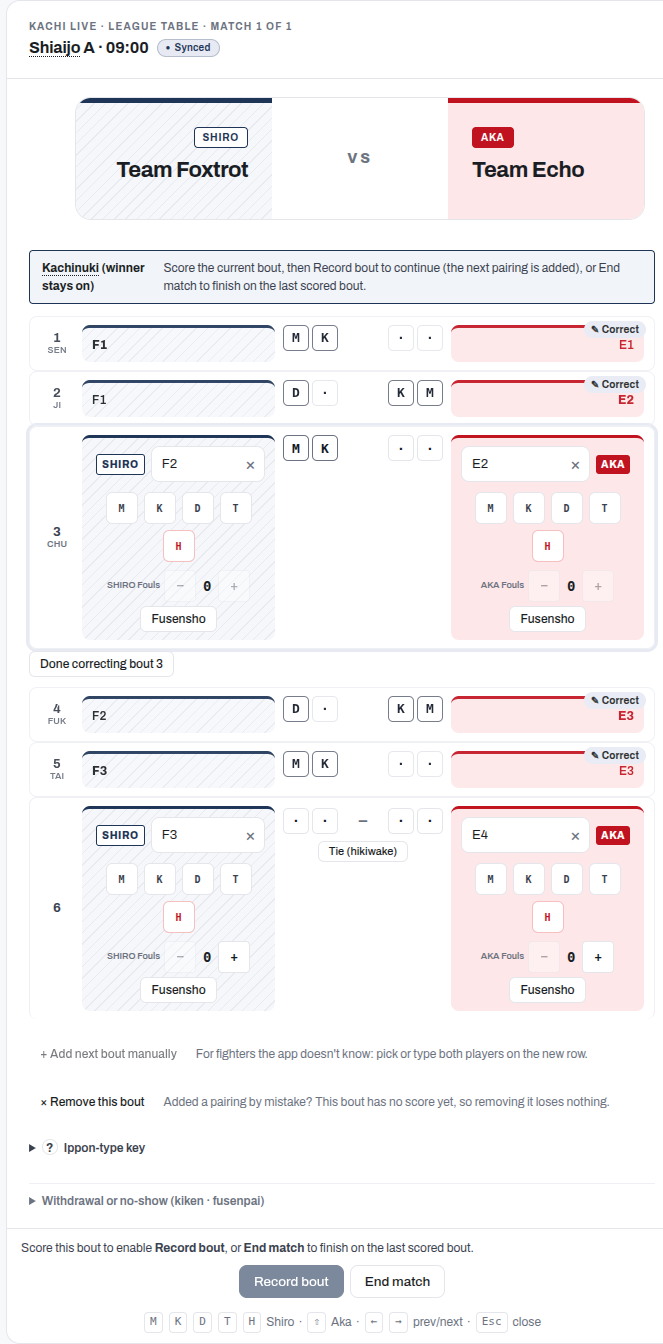
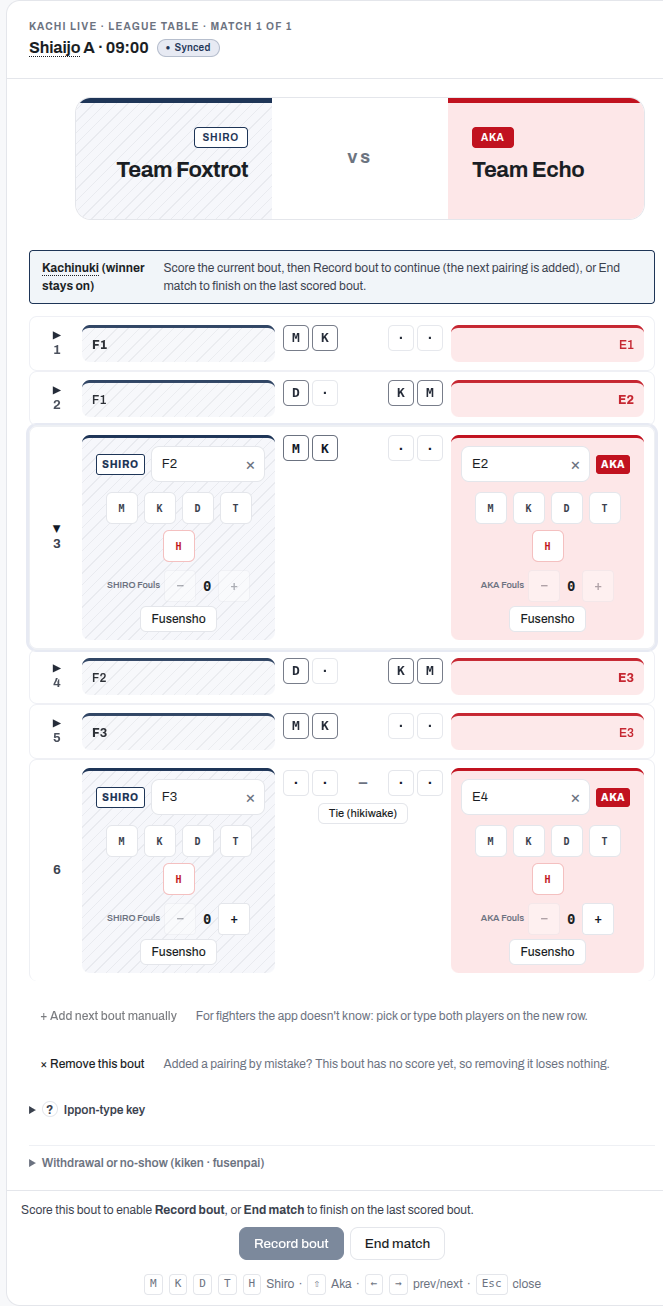
refactor(mp-gmcg): black-triangle toggle + numbers-only column for bout correction
Two operator-feedback refinements to the kachinuki correction left column.

Expand/collapse is now a black triangle, not the pencil pill or a "Done"
button (X means delete here — there is already "× Remove this bout"),
matching the app's disclosure convention:
- collapsed rows show a black ▶ (--ink-1), aria-expanded=false; the whole
  row expands (large tap target)
- an opened bout shows the triangle rotated to ▼ (aria-expanded=true) as a
  real button that collapses it back; only one bout is open at a time
- the winner-flip warning stays; the footer is now warning-only

The FIK position labels (Senpo/Jiho/...) are dropped in kachinuki, keeping
only the bout number: with winner-stays-on a bout is the previous winner vs
the NEXT team's fighter, not "Jiho vs Jiho", so the label misled. Regular
team matches (position vs counterpart) keep the labels.

Render tests updated to the caret controls + a "tapping a different fought
bout switches which one is open" test; the collapse-caret handler verified
red-then-green. Browser-verified on the iPad-Air shiaijo view: ▶ collapsed →
tap → ▼ correcting → tap ▼ → ▶; left column reads ▶1..▶5, 6 with no notation.

diff --git a/web-mobile/js/admin_scoring_team.jsx b/web-mobile/js/admin_scoring_team.jsx
@@ -1314,7 +1314,7 @@ export function TeamScoreEditorModal({ match, teamSize, onClose, onSubmit, onSub
   };
 
   // mp-gmcg: open a past (already-fought) bout for inline correction. Snapshot
-  // its current outcome so renderDoneBoutEditFooter can tell if the operator
+  // its current outcome so renderCorrectionWarning can tell if the operator
   // FLIPS who won (which invalidates the later bouts' fighters).
   const openDoneBoutEdit = (idx) => {
     const t = subTotals[idx];
@@ -1328,21 +1328,18 @@ export function TeamScoreEditorModal({ match, teamSize, onClose, onSubmit, onSub
   // changed who won (the later bouts were fought on the old result). Rendered
   // as its own element in the bout list so it sits directly beneath the bout
   // being edited without surgery inside the shared editable-bout block.
-  const renderDoneBoutEditFooter = (idx) => {
+  const renderCorrectionWarning = (idx) => {
     const orig = editingDoneOriginalRef.current;
     const t = subTotals[idx];
     const winnerFlipped = !!orig && !!t && t.winner !== orig.winner;
+    // The black-triangle caret (in the bout's position column) is the
+    // expand/collapse control, so no Done button here. The footer exists only
+    // to carry the winner-flip warning; nothing to show otherwise.
+    if (!winnerFlipped) return null;
     return (
-      <div key={`edit-footer-${idx}`} className="kachinuki-done-edit-footer" data-testid={`kachinuki-done-edit-footer-${idx}`}>
-        {winnerFlipped && (
-          <p className="kachinuki-done-edit-warn" data-testid="kachinuki-done-edit-warn">
-            You changed who won bout {idx + 1}. The later bouts were fought based on the old result, so check they still show the right competitors and fix any that are wrong.
-          </p>
-        )}
-        <button type="button" className="btn btn--sm kachinuki-done-edit-done" data-testid="kachinuki-done-edit-done" onClick={closeDoneBoutEdit}>
-          Done correcting bout {idx + 1}
-        </button>
-      </div>
+      <p key={`edit-warn-${idx}`} className="kachinuki-done-edit-warn" data-testid="kachinuki-done-edit-warn">
+        You changed who won bout {idx + 1}. The later bouts were fought based on the old result, so check they still show the right competitors and fix any that are wrong.
+      </p>
     );
   };
 
@@ -1356,16 +1353,17 @@ export function TeamScoreEditorModal({ match, teamSize, onClose, onSubmit, onSub
     const s = subs[idx];
     const t = subTotals[idx];
     const { aName, bName } = playerNamesForBout(idx);
-    const posAbbrev = positionAbbrevFor(teamSize, idx, (m.subResults || []).find(sr => sr.position === idx + 1));
     const scored = t.aTotal > 0 || t.bTotal > 0;
     const isDraw = s.draw || (t.winner === null && scored);
     const nameCls = (side) => "tsm-name__static" + (t.winner === side ? " tsm-name__static--win" : "");
     return (
       <div key={`ro-${idx}`} className="team-sub-match team-sub-match--readonly team-sub-match--editable" data-testid={`kachinuki-done-bout-${idx}`}
-        role="button" tabIndex={0} aria-label={`Correct bout ${idx + 1}`}
+        role="button" tabIndex={0} aria-label={`Correct bout ${idx + 1}`} aria-expanded={false}
         onClick={() => openDoneBoutEdit(idx)}
         onKeyDown={e => { if (e.key === "Enter" || e.key === " ") { e.preventDefault(); openDoneBoutEdit(idx); } }}>
-        <div className="team-sub-match__pos"><span className="team-sub-match__pos-num">{idx + 1}</span>{posAbbrev && <span className="team-sub-match__pos-name">{posAbbrev}</span>}</div>
+        {/* Kachinuki: only the bout number (no FIK position handle — the winner
+            stays on, so a bout is not "position vs same position"). */}
+        <div className="team-sub-match__pos"><span className="tsm-caret" aria-hidden="true">▶</span><span className="team-sub-match__pos-num">{idx + 1}</span></div>
         <div className="team-sub-match__row">
           <div className="team-sub-match__side team-sub-match__side--shiro">
             <div className="tsm-name"><span className={nameCls("b")}>{bName || "-"}</span></div>
@@ -1387,7 +1385,6 @@ export function TeamScoreEditorModal({ match, teamSize, onClose, onSubmit, onSub
             <div className="tsm-name"><span className={nameCls("a")}>{aName || "-"}</span></div>
           </div>
         </div>
-        <span className="team-sub-match__edit-hint" aria-hidden="true">✎ Correct</span>
       </div>
     );
   };
@@ -1734,7 +1731,7 @@ export function TeamScoreEditorModal({ match, teamSize, onClose, onSubmit, onSub
             // so positions.indexOf round-trips the index cleanly.
             ...kachinukiDoneBoutIdxs.flatMap(idx => (
               idx === editingDoneBoutIdx
-                ? [positions[idx], renderDoneBoutEditFooter(idx)]
+                ? [positions[idx], renderCorrectionWarning(idx)]
                 : [renderReadOnlyBout(idx)]
             )),
             ...visiblePositions,
@@ -1871,6 +1868,15 @@ export function TeamScoreEditorModal({ match, teamSize, onClose, onSubmit, onSub
             return (
               <div key={idx} className={"team-sub-match" + (idx === editingDoneBoutIdx ? " team-sub-match--correcting" : "")}>
                 <div className="team-sub-match__pos" title={posLabel}>
+                  {/* mp-gmcg: a bout opened for correction gets the same black
+                      triangle as its collapsed row, now pointing down (rotated
+                      via --open) and clickable to collapse it back. Only the
+                      corrected past bout carries it; the live current bout does
+                      not (it is never collapsible). */}
+                  {idx === editingDoneBoutIdx && (
+                    <button type="button" className="tsm-caret tsm-caret--open tsm-caret-btn" data-testid={`kachinuki-done-collapse-${idx}`}
+                      aria-label={`Collapse bout ${idx + 1}`} aria-expanded={true} onClick={closeDoneBoutEdit}>▶</button>
+                  )}
                   {/* Bout number AND the FIK position handle (Sen/Ji/Chu/Fuk/Tai
                       for 5-person teams): operators think in positions, so the
                       abbreviation rides in the row instead of hiding in the
@@ -1878,7 +1884,12 @@ export function TeamScoreEditorModal({ match, teamSize, onClose, onSubmit, onSub
                       the size-agnostic anchor; >5-person teams show it alone.
                       Daihyosen (the rep bout) shows "DH". */}
                   <span className="team-sub-match__pos-num">{isDaihyoRow ? "DH" : idx + 1}</span>
-                  {!isDaihyoRow && posAbbrev && (
+                  {/* mp-gmcg: the FIK position handle (Senpo/Jiho/...) is shown
+                      only for REGULAR team matches, where each position fights
+                      its counterpart. In kachinuki the winner stays on and faces
+                      the NEXT team's fighter, so a bout is not "Jiho vs Jiho" and
+                      the label misleads: only the bout number is kept. */}
+                  {!isKachinuki && !isDaihyoRow && posAbbrev && (
                     <span className="team-sub-match__pos-name">{posAbbrev}</span>
                   )}
                 </div>

diff --git a/web-mobile/js/__tests__/render/team_editor_config_matrix.render.test.jsx b/web-mobile/js/__tests__/render/team_editor_config_matrix.render.test.jsx
@@ -326,9 +326,9 @@ describe('TeamScoreEditorModal kachinuki bout navigation', () => {
 
   it('RUNNING: tapping a fought bout reopens it inline with scoring controls (mp-gmcg)', async () => {
     // The mid-encounter correction path: a fought bout is read-only with a
-    // visible "Correct" affordance, and tapping it reopens the SAME scoring
-    // controls as the current bout, in place, flagged as the bout being
-    // corrected. No Reopen/End round-trip needed.
+    // black expand caret and aria-expanded=false, and tapping it reopens the
+    // SAME scoring controls as the current bout, in place, flagged as the bout
+    // being corrected with a collapse caret. No Reopen/End round-trip needed.
     const { container } = await renderCell(KACHI_CELL, {
       subResults: [
         { position: 1, sideA: 'A1', sideB: 'B1', ipponsA: [], ipponsB: ['M', 'K'], winner: 'B1' },
@@ -337,7 +337,8 @@ describe('TeamScoreEditorModal kachinuki bout navigation', () => {
     });
     const done = screen.getByTestId('kachinuki-done-bout-0');
     expect(done.classList.contains('team-sub-match--readonly')).toBe(true);
-    expect(done.querySelector('.team-sub-match__edit-hint')).not.toBeNull();
+    expect(done.getAttribute('aria-expanded')).toBe('false');
+    expect(done.querySelector('.tsm-caret')).not.toBeNull();
     expect(done.querySelector('.team-sub-match__btns')).toBeNull();
     await act(async () => { fireEvent.click(done); });
     const rows = container.querySelectorAll('.team-sub-match');
@@ -346,7 +347,10 @@ describe('TeamScoreEditorModal kachinuki bout navigation', () => {
     expect(rows[0].classList.contains('team-sub-match--correcting')).toBe(true);
     expect(rows[0].querySelector('.team-sub-match__btns')).not.toBeNull();
     expect(rows[1].querySelector('.team-sub-match__btns')).not.toBeNull();
-    expect(screen.getByTestId('kachinuki-done-edit-footer-0')).toBeTruthy();
+    // The collapse caret (rotated, aria-expanded=true) is the close control.
+    const caret = screen.getByTestId('kachinuki-done-collapse-0');
+    expect(caret.classList.contains('tsm-caret--open')).toBe(true);
+    expect(caret.getAttribute('aria-expanded')).toBe('true');
   });
 
   it('RUNNING: correcting a fought bout without changing the winner shows no chain warning (mp-gmcg)', async () => {
@@ -387,7 +391,7 @@ describe('TeamScoreEditorModal kachinuki bout navigation', () => {
     expect(screen.getByTestId('kachinuki-done-edit-warn')).toBeTruthy();
   });
 
-  it('RUNNING: Done collapses a corrected bout back to a read-only row (mp-gmcg)', async () => {
+  it('RUNNING: the collapse caret returns a corrected bout to a read-only row (mp-gmcg)', async () => {
     await renderCell(KACHI_CELL, {
       subResults: [
         { position: 1, sideA: 'A1', sideB: 'B1', ipponsA: [], ipponsB: ['M', 'K'], winner: 'B1' },
@@ -395,10 +399,28 @@ describe('TeamScoreEditorModal kachinuki bout navigation', () => {
       ],
     });
     await act(async () => { fireEvent.click(screen.getByTestId('kachinuki-done-bout-0')); });
-    expect(screen.getByTestId('kachinuki-done-edit-footer-0')).toBeTruthy();
-    await act(async () => { fireEvent.click(screen.getByTestId('kachinuki-done-edit-done')); });
+    expect(screen.getByTestId('kachinuki-done-collapse-0')).toBeTruthy();
+    await act(async () => { fireEvent.click(screen.getByTestId('kachinuki-done-collapse-0')); });
     expect(screen.getByTestId('kachinuki-done-bout-0').classList.contains('team-sub-match--readonly')).toBe(true);
-    expect(screen.queryByTestId('kachinuki-done-edit-footer-0')).toBeNull();
+    expect(screen.queryByTestId('kachinuki-done-collapse-0')).toBeNull();
+  });
+
+  it('RUNNING: tapping a different fought bout switches which one is open (mp-gmcg)', async () => {
+    // Only one bout is open at a time: opening another collapses the current.
+    await renderCell(KACHI_CELL, {
+      subResults: [
+        { position: 1, sideA: 'A1', sideB: 'B1', ipponsA: [], ipponsB: ['M', 'K'], winner: 'B1' },
+        { position: 2, sideA: 'A2', sideB: 'B1', ipponsA: ['M', 'K'], ipponsB: [], winner: 'A2' },
+        { position: 3, sideA: 'A2', sideB: 'B2', ipponsA: [], ipponsB: [] },
+      ],
+    });
+    await act(async () => { fireEvent.click(screen.getByTestId('kachinuki-done-bout-0')); });
+    expect(screen.getByTestId('kachinuki-done-collapse-0')).toBeTruthy();
+    // Open bout 2: bout 1 collapses (its caret gone), bout 2's caret appears.
+    await act(async () => { fireEvent.click(screen.getByTestId('kachinuki-done-bout-1')); });
+    expect(screen.queryByTestId('kachinuki-done-collapse-0')).toBeNull();
+    expect(screen.getByTestId('kachinuki-done-collapse-1')).toBeTruthy();
+    expect(screen.getByTestId('kachinuki-done-bout-0').classList.contains('team-sub-match--readonly')).toBe(true);
   });
 
   it('RUNNING: an open past-bout correction survives a same-match reload (mp-gmcg)', async () => {
@@ -414,7 +436,7 @@ describe('TeamScoreEditorModal kachinuki bout navigation', () => {
     };
     const utils = await renderCell(KACHI_CELL, overrides);
     await act(async () => { fireEvent.click(screen.getByTestId('kachinuki-done-bout-0')); });
-    expect(screen.getByTestId('kachinuki-done-edit-footer-0')).toBeTruthy();
+    expect(screen.getByTestId('kachinuki-done-collapse-0')).toBeTruthy();
     // Simulate the SSE reload: a brand-new match object, same id + data.
     await act(async () => {
       utils.rerender(
@@ -422,7 +444,7 @@ describe('TeamScoreEditorModal kachinuki bout navigation', () => {
           onSubmit={vi.fn().mockResolvedValue(undefined)} password="" />
       );
     });
-    expect(screen.getByTestId('kachinuki-done-edit-footer-0')).toBeTruthy();
+    expect(screen.getByTestId('kachinuki-done-collapse-0')).toBeTruthy();
   });
 
   it('COMPLETED (correction): every fought server bout renders and is editable', async () => {

diff --git a/web-mobile/css/styles.css b/web-mobile/css/styles.css
@@ -6833,51 +6833,76 @@ abbr.msb-lab { text-decoration: none; cursor: help; }
 
 /* mp-gmcg: a fought kachinuki bout is tappable during a RUNNING encounter to
    reopen it for inline correction. The whole row is the target (a tired
-   operator shouldn't have to hit a tiny icon), with an always-visible chip
-   since touch has no hover. */
+   operator shouldn't have to hit a tiny icon); the black caret in the position
+   column is the expand/collapse indicator. */
 .team-sub-match--editable {
-  position: relative;
   cursor: pointer;
-  transition: opacity 120ms ease-out, box-shadow 120ms ease-out;
+  transition: box-shadow 120ms ease-out;
 }
 .team-sub-match--editable:hover {
   opacity: 1;
 }
 .team-sub-match--editable:focus-visible {
   outline: none;
-  opacity: 1;
   box-shadow: var(--focus-ring);
   border-radius: 8px;
 }
-.team-sub-match__edit-hint {
-  position: absolute;
-  top: 4px;
-  right: 8px;
+
+/* Black-triangle disclosure caret. ▶ collapsed; rotated to point down when the
+   bout is open for correction. X means delete in this app (see "× Remove this
+   bout"), so expand/collapse is a triangle, matching the disclosure convention. */
+.tsm-caret {
+  display: inline-block;
   font-size: 10px;
-  font-weight: 700;
-  letter-spacing: 0.02em;
-  color: var(--ink, #111827);
-  background: var(--accent-soft);
-  border-radius: 999px;
-  padding: 1px 7px;
-  pointer-events: none;
+  line-height: 1;
+  color: var(--ink-1);
+  transition: transform 120ms ease-out;
 }
+.tsm-caret--open {
+  transform: rotate(90deg);
+}
+/* On an opened bout the caret is a real button: the row itself now carries the
+   scoring controls, so the whole-row expand target can't double as collapse. */
+.tsm-caret-btn {
+  background: none;
+  border: 0;
+  padding: 0;
+  cursor: pointer;
+  color: var(--ink-1);
+}
+.tsm-caret-btn:focus-visible {
+  outline: none;
+  box-shadow: var(--focus-ring);
+  border-radius: 4px;
+}
+/* Flex the position column only when a caret rides in it, so the caret sits
+   left of the number without disturbing caret-less rows. */
+.team-sub-match__pos:has(.tsm-caret) {
+  display: flex;
+  align-items: center;
+  flex-wrap: wrap;
+  gap: 3px 6px;
+}
+@media (pointer: coarse) {
+  .tsm-caret-btn {
+    min-height: 44px;
+    min-width: 36px;
+    display: inline-flex;
+    align-items: center;
+    justify-content: center;
+    margin: -10px 0;
+  }
+}
+
 /* The bout currently open for correction: a clear accent frame so the operator
    sees which row the scoring controls belong to. */
 .team-sub-match--correcting {
   box-shadow: var(--focus-ring);
   border-radius: 8px;
 }
-/* Footer beneath a bout opened for correction: the [Done] control and a
-   non-destructive warning when the correction has flipped who won. */
-.kachinuki-done-edit-footer {
-  display: flex;
-  flex-direction: column;
-  gap: 6px;
-  margin: 2px 0 10px;
-}
+/* Non-destructive warning beneath a bout whose correction flipped who won. */
 .kachinuki-done-edit-warn {
-  margin: 0;
+  margin: 4px 0 10px;
   padding: 8px 10px;
   font-size: 13px;
   line-height: 1.4;
@@ -6885,9 +6910,6 @@ abbr.msb-lab { text-decoration: none; cursor: help; }
   background: var(--warn-soft);
   border: 1px solid var(--warn-border);
   border-radius: 6px;
-}
-.kachinuki-done-edit-done {
-  align-self: flex-start;
 }
 
 /* ---------- Team sub-match fouls (inline, independent) ---------- */

diff --git a/docs/user-guide/organisers/team-tournaments.md b/docs/user-guide/organisers/team-tournaments.md
@@ -76,9 +76,9 @@ If the app adds a pairing you did not want, for example an extra bout after the 
 
 ![The kachinuki score editor: the bouts already fought shown as read-only rows above the current bout (which carries the ippon buttons for each side), the × Remove this bout undo for a pairing added by mistake, and the Record bout and End match footer actions.](../../screenshots/kachinuki-scoring-buttons.png)
 
-To fix a bout you have already recorded, without ending the encounter, tap its row. It reopens in place with the same scoring controls as the current bout, so you can adjust the points or change who won, and the change saves as you go. Tap **Done correcting** when you are finished.
+To fix a bout you have already recorded, without ending the encounter, tap its row. It reopens in place with the same scoring controls as the current bout, so you can adjust the points or change who won, and the change saves as you go. Each fought bout carries a black triangle in its number column: it points right when the bout is collapsed and down when it is open, so tapping it expands the bout to correct it and collapses it again when you are finished.
 
-![The kachinuki score editor with an earlier bout reopened for correction: the bout sits in an accent frame with its ippon buttons for each side, a Done correcting button beneath it, and the other fought bouts still shown as read-only rows above and below.](../../screenshots/kachinuki-correct-bout.png)
+![The kachinuki score editor with an earlier bout reopened for correction: the bout sits in an accent frame with its ippon buttons for each side and a downward black triangle in its number column that collapses it again, while the other fought bouts stay as read-only rows above and below, each with a rightward triangle.](../../screenshots/kachinuki-correct-bout.png)
 
 If your correction changes who won that bout, the bouts after it were fought on the old result, so the app flags them for you to check and put right. It never re-shuffles the later bouts on its own: only you, at the court, know how they actually went.
 
